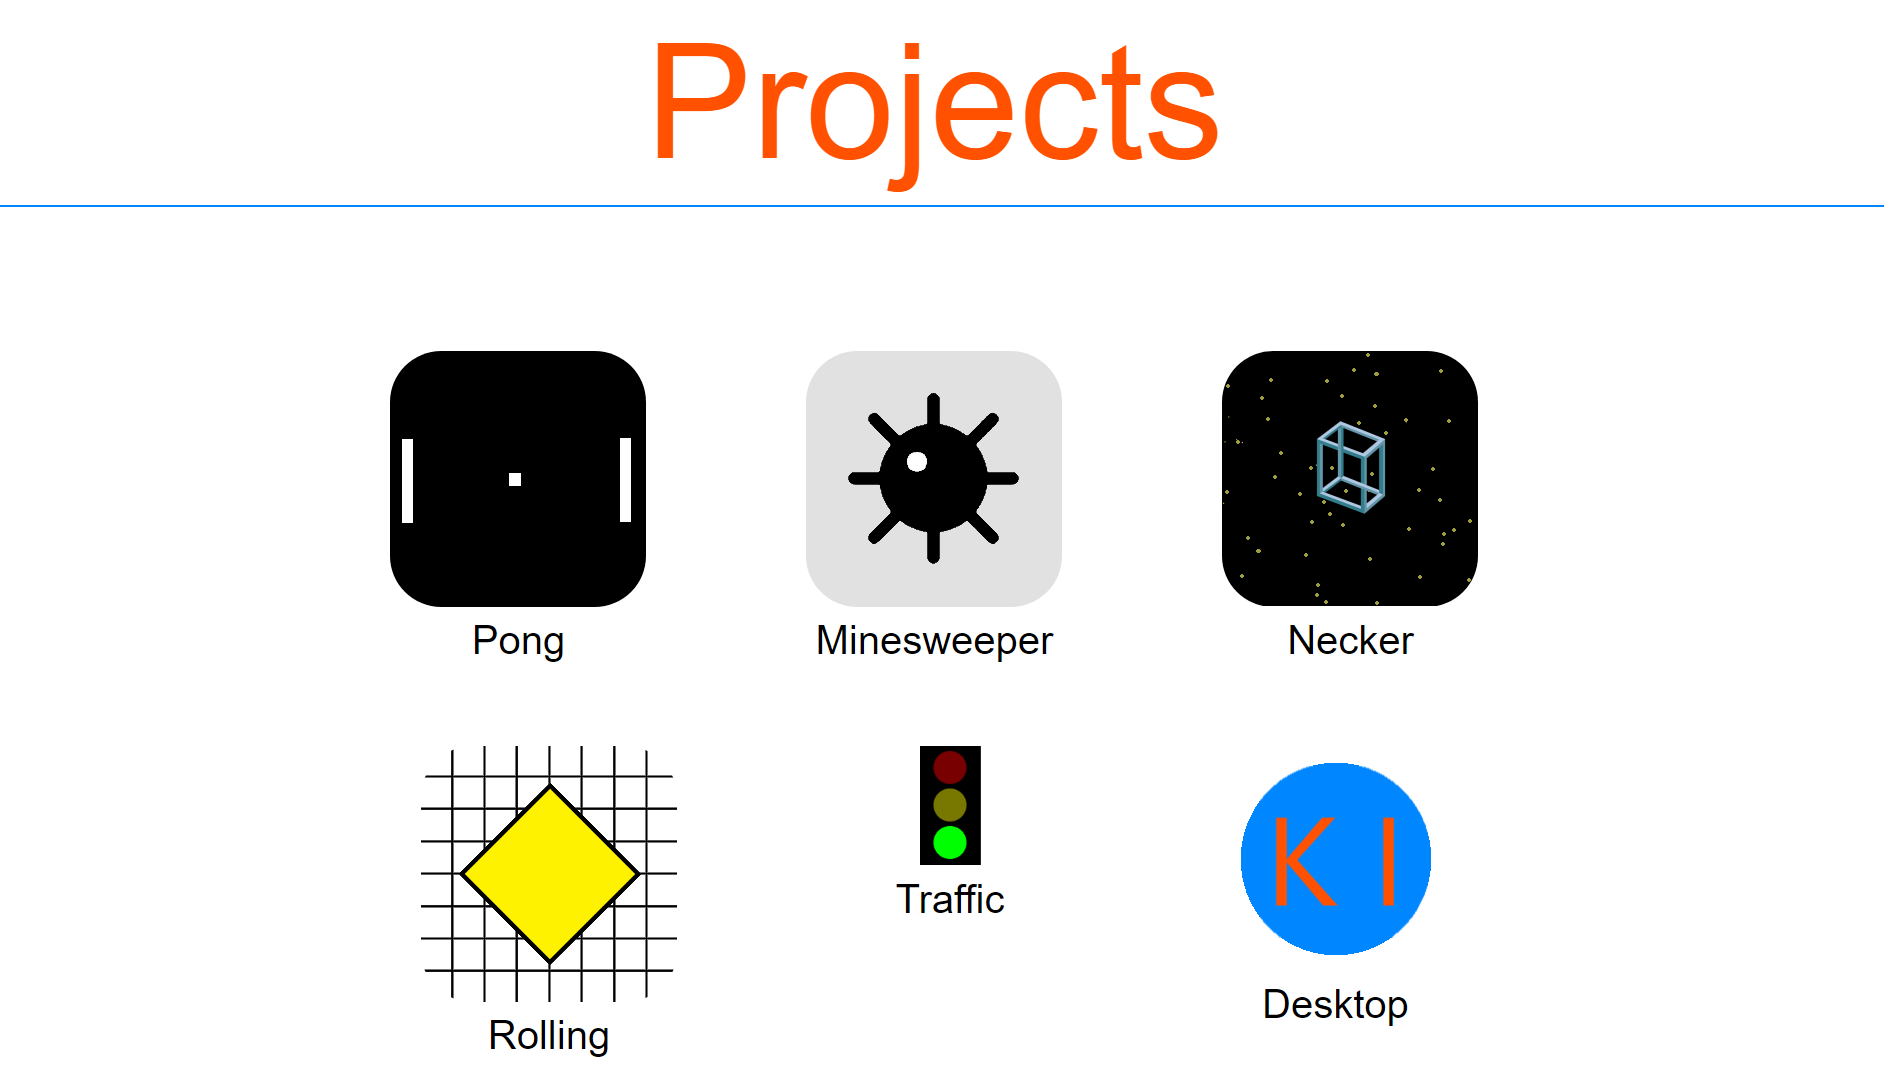
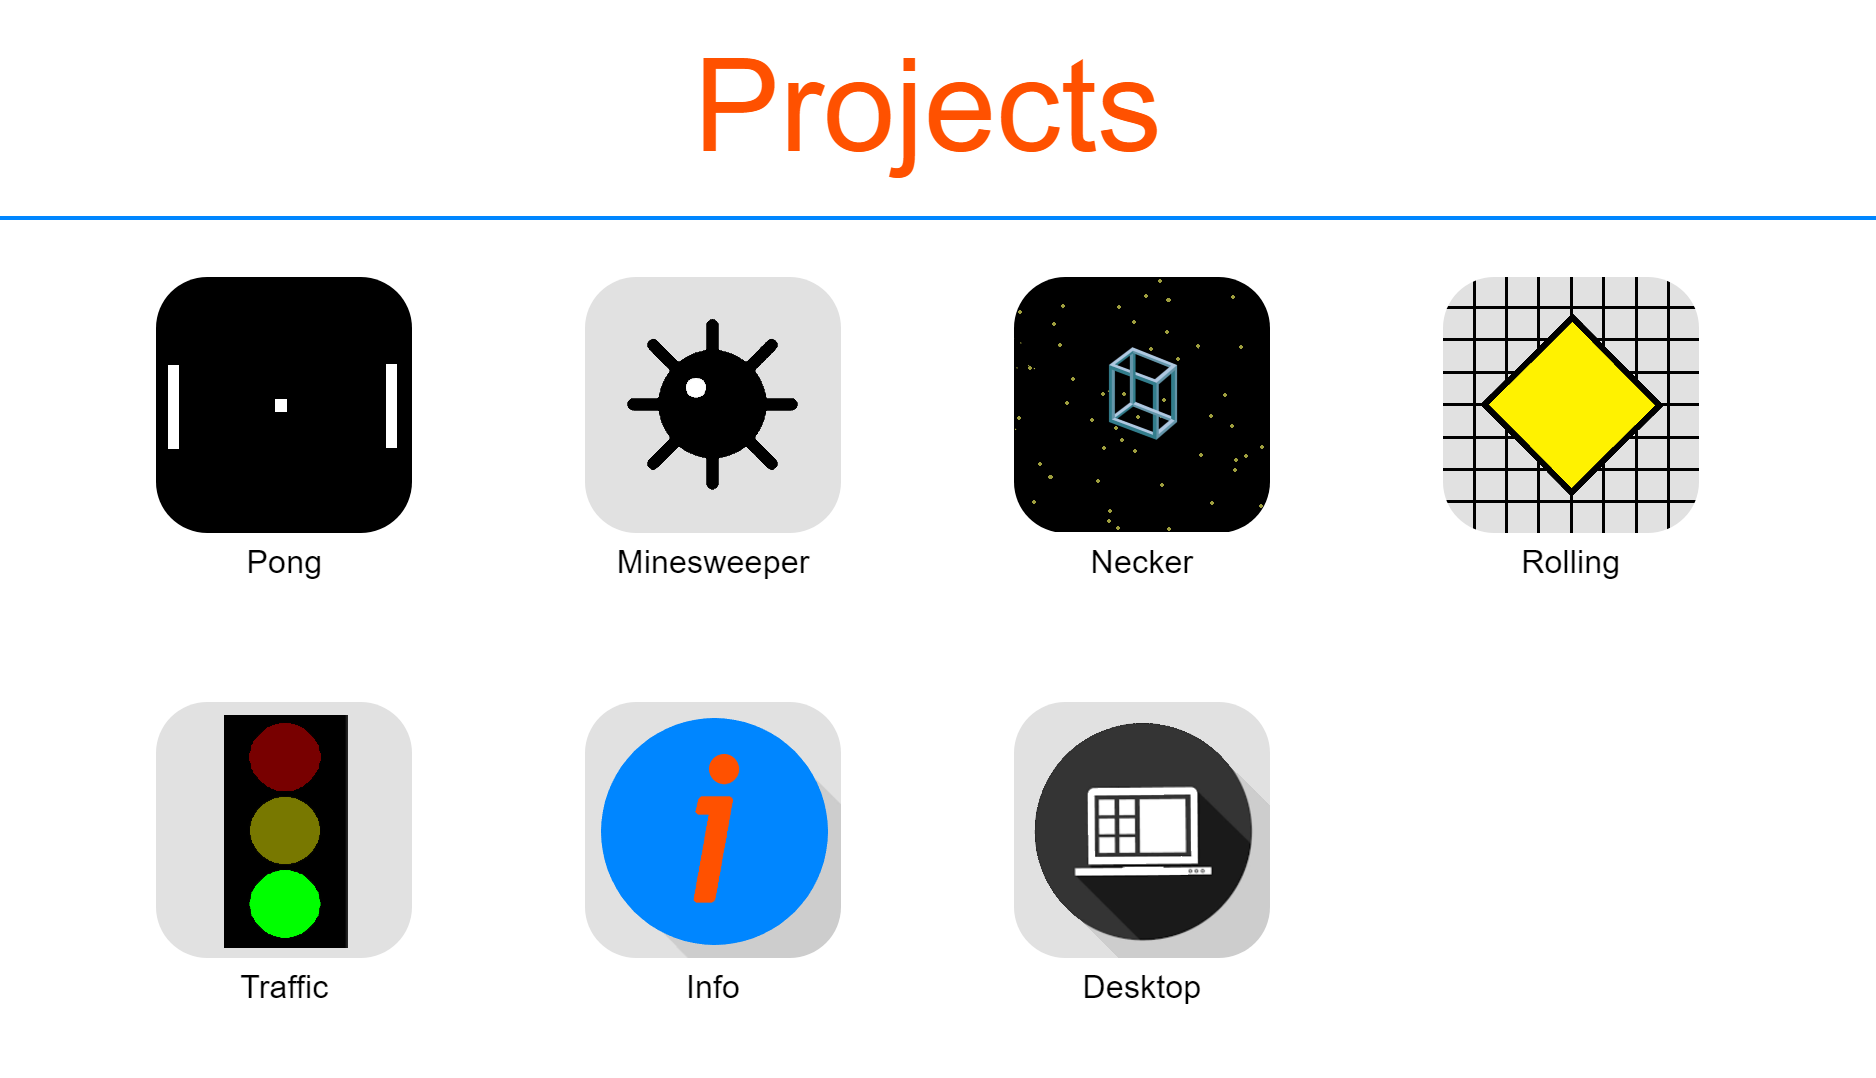
spacing

diff --git a/css/app-styles.css b/css/app-styles.css
@@ -16,6 +16,44 @@ h1 {
     border-bottom: .4vh solid rgb(0,134,255);
 }
 
+#app-top {
+    position: fixed;
+    width: 100%;
+    background-color: white;
+}
+
+#app-bottom {
+    position: fixed;
+    width: 100%;
+    background-color: white;
+    top: 80vh;
+}
+
+.space-5-vh {
+    padding-top: 5vh;
+    padding-bottom: 5vh;
+}
+
+.space-10-vh {
+    padding-top: 10vh;
+    padding-bottom: 10vh;
+}
+
+.space-20-vh {
+    padding-top: 20vh;
+    padding-bottom: 20vh;
+}
+
+.space-50-vh {
+    padding-top: 50vh;
+    padding-bottom: 50vh;
+}
+
+.space-top-bar {
+    padding-top: 12vh;
+    padding-bottom: 12vh;
+}
+
 .app-project-container img{
     max-width: 25vh;
     border-radius: 20%;
@@ -62,11 +100,10 @@ h1 {
 }
 
 .task-bar {
-    padding-bottom: 4px;
-    margin-top: 5vh;
-    margin-bottom: 5vh;
+    padding-top: 4vh;
     display: flex;
     justify-content: center;
+    border-top: .4vh solid rgb(0,134,255);
 }
 
 .status-bar {
@@ -76,12 +113,10 @@ h1 {
 .home {
     background-color: rgb(255,81,0);
     color: rgb(50,50,50);
-    padding: 6px;
-    font-size: 40px;
+    padding: 2vh;
+    font-size: 6vh;
     border: none;
-    /* min-width: 180px; */
     min-width: 30vw;
-    margin-bottom: 5px;
 }
 
 .center {
@@ -198,8 +233,26 @@ h1 {
         transform: rotate(0deg);
     }
 
+    .space-top-bar {
+        padding-top: 12vw;
+        padding-bottom: 12vw;
+    }
+
+    #app-bottom {
+        position: fixed;
+        width: 100%;
+        background-color: white;
+        top: 85vh;
+    }
     
-    
+    .home {
+        background-color: rgb(255,81,0);
+        color: rgb(50,50,50);
+        padding: 2vw;
+        font-size: 6vw;
+        border: none;
+        min-width: 30vh;
+    }
 }
 
 @media all and (max-width: 1000px) {

diff --git a/app/info.html b/app/info.html
@@ -18,8 +18,11 @@
 </head>
 
 <body onload="json()">
-    <div class="status-bar"></div>
-    <h1>Projects</h1> 
+    <div id="app-top">
+        <div class="status-bar"></div>
+        <h1>Projects</h1> 
+    </div>
+    <div class="space-top-bar"></div>
     <div class="space-10"></div>
     <div id="page-title" style="font-size: 7vh">Info</div>
     <div id="app-content">
@@ -34,9 +37,12 @@
         <p class="info-left">Port:</p>
         <p class="info-right" id="info-port">[ Loading ]</p>
     </div>
+    <div class="space-top-bar"></div>
 
-    <div class="task-bar">
-        <a href="index.html"><button class="home"> Main Page </button></a>
+    <div id="app-bottom">
+        <div class="task-bar">
+            <a href="index.html"><button class="home"> Main Page </button></a>
+        </div>
     </div>
 </body>
 

diff --git a/app/index.html b/app/index.html
@@ -29,8 +29,11 @@
     </head>
 
     <body>
-        <div class="status-bar"></div>
-        <h1>Projects</h1>
+        <div id="app-top">
+            <div class="status-bar"></div>
+            <h1>Projects</h1>
+        </div>
+        <div class="space-top-bar"></div>
         <div id="app-projects">
             <div class="app-project-container">
                 <div class="app-project">
